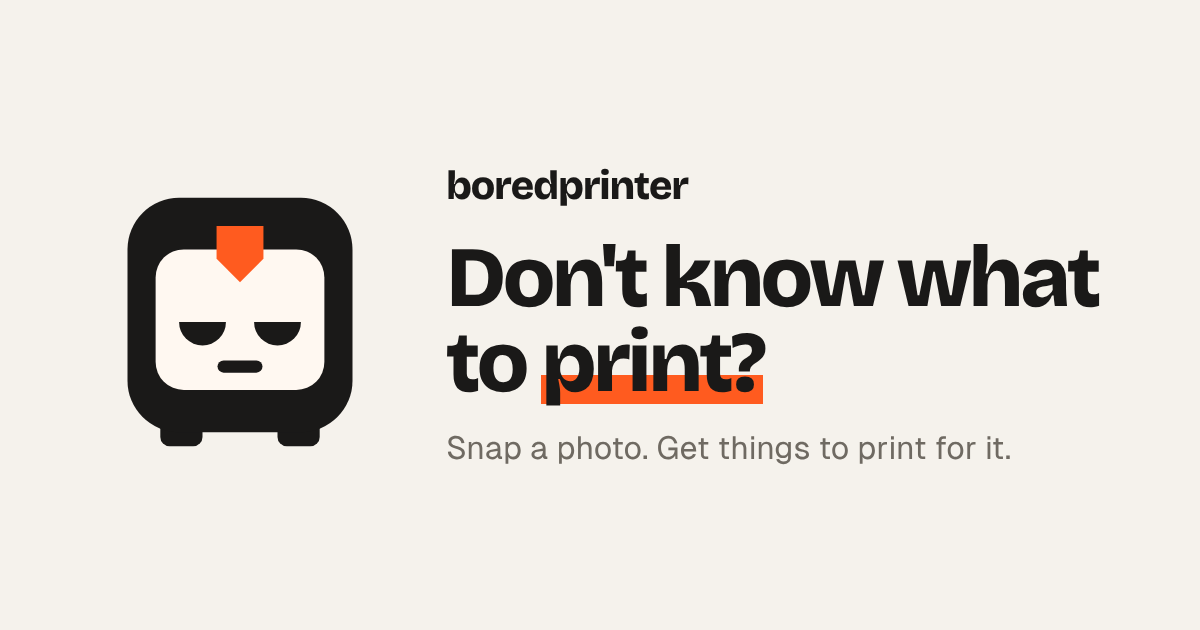
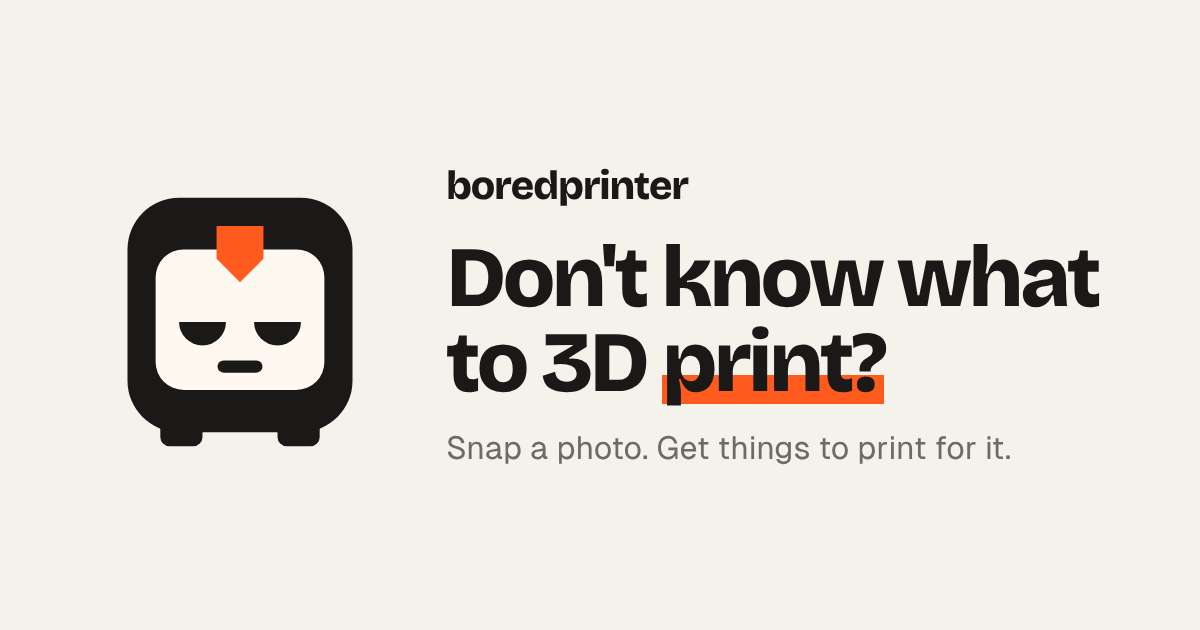
Headline: Don't know what to 3D print?
Claude-Session: https://claude.ai/code/session_01CR7aiKgy5GxxkevsXufwus

Changed region(s): [[0.4317, 0.5127, 0.74, 0.6635]]

diff --git a/public/index.html b/public/index.html
@@ -7,11 +7,11 @@
 <link rel="canonical" href="https://boredprinter.com/">
 <meta property="og:url" content="https://boredprinter.com/">
 <meta property="og:site_name" content="boredprinter">
-<meta name="twitter:title" content="Don't know what to print? Snap a photo.">
+<meta name="twitter:title" content="Don't know what to 3D print? Snap a photo.">
 <meta name="twitter:description" content="Out of 3D print ideas? Snap a photo of any spot and get useful things to print for it.">
 <meta name="twitter:image" content="https://boredprinter.com/og.png">
 <script type="application/ld+json">{"@context": "https://schema.org", "@graph": [{"@type": "WebSite", "@id": "https://boredprinter.com/#site", "name": "boredprinter", "url": "https://boredprinter.com/", "description": "Out of 3D print ideas? Snap a photo of any spot and get useful things to print for it."}, {"@type": "Organization", "@id": "https://boredprinter.com/#org", "name": "boredprinter", "url": "https://boredprinter.com/", "logo": "https://boredprinter.com/icon-512.png", "sameAs": ["https://www.instagram.com/boredprinter/"]}, {"@type": "WebApplication", "name": "boredprinter", "url": "https://boredprinter.com/", "applicationCategory": "LifestyleApplication", "operatingSystem": "Any (web browser)", "description": "Out of ideas for your 3D printer? Take a photo of your car, desk, kitchen or any room and get useful things to print for that exact spot, with real models from Printables. Save rooms in My home and get new print ideas every week.", "offers": {"@type": "Offer", "price": "0", "priceCurrency": "USD", "description": "First photo free, 3 credits on sign-up"}, "publisher": {"@id": "https://boredprinter.com/#org"}}, {"@type": "FAQPage", "mainEntity": [{"@type": "Question", "name": "Are the models free?", "acceptedAnswer": {"@type": "Answer", "text": "Most are. You download them from the creator's page."}}, {"@type": "Question", "name": "What are weekly ideas?", "acceptedAnswer": {"@type": "Answer", "text": "Turn them on for a spot, like your kitchen, and you get new prints for it every week."}}, {"@type": "Question", "name": "Do you keep my photo?", "acceptedAnswer": {"@type": "Answer", "text": "No. We only keep a short list of what we saw, like \"bed, lamp\"."}}, {"@type": "Question", "name": "Which printers does it work with?", "acceptedAnswer": {"@type": "Answer", "text": "All of them. Pick yours on your account page and ideas fit its size."}}, {"@type": "Question", "name": "What if an idea doesn't fit?", "acceptedAnswer": {"@type": "Answer", "text": "Bad photo? You get your credit back."}}, {"@type": "Question", "name": "What does it cost?", "acceptedAnswer": {"@type": "Answer", "text": "First photo free, plus 3 credits when you sign up. 1 photo = 1 credit."}}]}]}</script>
-<meta property="og:title" content="Don't know what to print? Snap a photo.">
+<meta property="og:title" content="Don't know what to 3D print? Snap a photo.">
 <meta property="og:description" content="Out of 3D print ideas? Snap a photo of any spot and get useful things to print for it.">
 <meta property="og:image" content="https://boredprinter.com/og.png">
 <meta property="og:type" content="website">
@@ -374,7 +374,7 @@ html{scroll-behavior:smooth}
   <section id="landing">
     <div class="hero">
       <div class="mascot" aria-hidden="true"><svg><use href="#bp"/></svg><span class="z">z</span><span class="z">z</span></div>
-      <h1 class="display">Don't know what to <span>print?</span></h1>
+      <h1 class="display">Don't know what to <span>3D print?</span></h1>
       <p>Snap a photo of any spot. Get useful things to print for it.</p>
       <label class="upload" for="file">
         <span class="up-ic"><svg width="30" height="30" viewBox="0 0 24 24" fill="none" stroke="currentColor" stroke-width="1.8" stroke-linecap="round" stroke-linejoin="round"><path d="M4 8h3l2-3h6l2 3h3a1 1 0 0 1 1 1v10a1 1 0 0 1-1 1H4a1 1 0 0 1-1-1V9a1 1 0 0 1 1-1z"/><circle cx="12" cy="13.5" r="3.5"/></svg></span>
@@ -950,7 +950,7 @@ async function shareImage(){
   g.fillStyle = "#6F6A62"; g.font = '600 34px Geist, sans-serif'; g.fillText("Your printer bored too? → " + location.host, 60, 1820);
   const blob = await new Promise(res => c.toBlob(res, "image/png"));
   const file = new File([blob], "boredprinter.png", { type: "image/png" });
-  if (navigator.canShare?.({ files: [file] })) { try { await navigator.share({ files: [file], text: "Don't know what to print? " + location.origin }); return; } catch (e) { if (e.name === "AbortError") return; } }
+  if (navigator.canShare?.({ files: [file] })) { try { await navigator.share({ files: [file], text: "Don't know what to 3D print? " + location.origin }); return; } catch (e) { if (e.name === "AbortError") return; } }
   const a = document.createElement("a"); a.href = URL.createObjectURL(blob); a.download = "boredprinter.png"; a.click();
 }
 $("shareBtn").onclick = shareImage;
